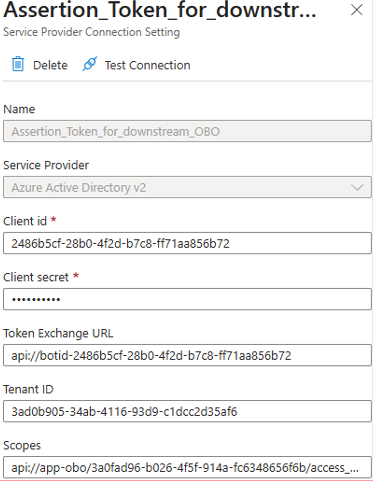
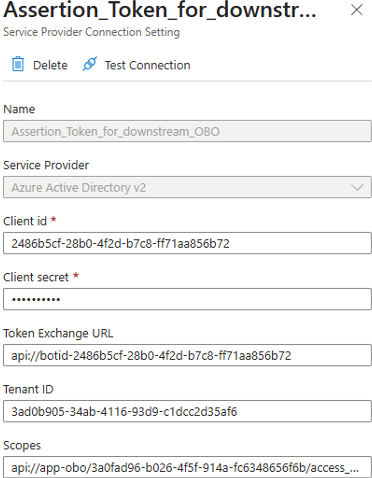
Add Appendix B (Microsoft Official Documentation); correct Registered Applications appendix
- New Appendix B: official Microsoft sources for x-client-* headers and OBO

- Downstream: 'Is x-client-user-token a fake header?' security section

- Bot: fix Token Exchange URL (Teams obtains Token C); clarify Token A never seen

- Index: 'Who uses these applications?' list; Bot purpose reworded

- Replace Bot OAuth Connection screenshot

diff --git a/docs/12-appendix-microsoft-documentation.md b/docs/12-appendix-microsoft-documentation.md
@@ -1,0 +1,36 @@
+# Appendix B — Microsoft Official Documentation
+
+This appendix collects the **official Microsoft sources** that back the design choices in this documentation — in particular the use of the `x-client-*` pass-through headers and the On-Behalf-Of support in Foundry hosted agents.
+
+## Summary table
+
+| # | What it states | Microsoft source (page / section) | Exact excerpt |
+|---|----------------|-----------------------------------|---------------|
+| **1** | The `x-client-` prefix is an official **client → agent pass-through** channel | [Azure AI Agent Server Core library for .NET](https://learn.microsoft.com/en-us/dotnet/api/overview/azure/ai.agentserver.core-readme?view=azure-dotnet-preview) — *PlatformHeaders* section | `ClientHeaderPrefix` → `x-client-*` → *Request* → "Pass-through client header prefix" |
+| **2a** | Hosted agents support **OBO with a user token** | [Hosted agents in Foundry Agent Service](https://learn.microsoft.com/en-us/azure/foundry/agents/concepts/hosted-agents) — *Agent identity and endpoint* section | "User-invoked scenarios (interactive): If a user token is present, the platform supports OAuth 2.0 On-Behalf-Of (OBO) flows. In this case, the agent can call downstream services on behalf of the user using the user's delegated permissions, subject to Microsoft Entra ID tenant policies." |
+| **2b** | The **"attended" OBO model** described in detail | [Agent identity concepts in Microsoft Foundry](https://learn.microsoft.com/en-us/azure/foundry/agents/concepts/agent-identity) — *Authentication capabilities* section | "Attended (delegated access or on-behalf-of flow): The agent operates on behalf of a human user, using the OAuth 2.0 on-behalf-of (OBO) flow. The user first authenticates to the application, and the application passes the user's token to Agent Service…" |
+| **3** | `x-client-*` headers are treated as **pass-through** by the Foundry platform | [GitHub issue Azure/azure-sdk-for-python#45797](https://github.com/Azure/azure-sdk-for-python/issues/45797) — answered by a Microsoft engineer | Customer-reported; Microsoft reply: "All x-client-* headers are treated as pass through by the platform" — this does **not** include the OAuth token provided in the `Authorization` header |
+
+## Detailed description
+
+### 1. The `x-client-` prefix is an official pass-through channel — Microsoft Learn (.NET SDK reference)
+
+Page: [Azure AI Agent Server Core library for .NET](https://learn.microsoft.com/en-us/dotnet/api/overview/azure/ai.agentserver.core-readme?view=azure-dotnet-preview) → *PlatformHeaders* section. The official table explicitly lists the constant `ClientHeaderPrefix = x-client-`, direction *Request*, description "Pass-through client header prefix". This is official documentation on `learn.microsoft.com`: it states, in black and white, that `x-client-` is the prefix for client headers forwarded from the client to the agent. The exact same construct exists in the Python package (`azure-ai-agentserver-core`, `PlatformHeaders` / `CLIENT_HEADER_PREFIX = "x-client-"`).
+
+### 2. Hosted agents support OBO with a user token — Microsoft Learn (concept pages)
+
+Two concept pages confirm it:
+
+- **[Hosted agents in Foundry Agent Service](https://learn.microsoft.com/en-us/azure/foundry/agents/concepts/hosted-agents)** (*Agent identity and endpoint*): if a user token is present, the platform supports the OAuth 2.0 On-Behalf-Of flow, and the agent can call downstream services with the user's delegated permissions.
+- **[Agent identity concepts in Microsoft Foundry](https://learn.microsoft.com/en-us/azure/foundry/agents/concepts/agent-identity)** (*Authentication capabilities*): describes the "attended (OBO)" model in which the application passes the user token to Agent Service, which exchanges it for a token carrying the agent's identity and the user's delegated permissions.
+
+### 3. "Foundry strips the token" — there is NO official Microsoft documentation
+
+An important and honest clarification: there is **no** Microsoft Learn page stating that Foundry "strips" the `Authorization` header (or the user identity) after using it for authentication. The only public evidence is the GitHub issue **[Azure/azure-sdk-for-python#45797](https://github.com/Azure/azure-sdk-for-python/issues/45797)** (a customer report, with input from Microsoft employees), where:
+
+- it is observed that the `Authorization` header is **not** propagated to the agent container (with the `from_agent_framework` adapter);
+- a Microsoft member (RaviPidaparthi) recommends precisely the `x-client-*` headers as the transport channel: *"All x-client-* headers are treated as pass through by the platform."*
+
+---
+
+**Back to:** [README / Introduction](../README.md) · [Appendix A](11-appendix-app-registrations.md)

diff --git a/docs/11a-app-bot.md b/docs/11a-app-bot.md
@@ -2,7 +2,7 @@
 
 [← Back to the three applications](11-appendix-app-registrations.md)
 
-**Role:** authenticates access to the bot service.
+**Role:** creates and authenticates access to the bot service.
 
 | Field | Value |
 |-------|-------|
@@ -26,9 +26,9 @@ How do we perform this OBO? We could do it through an MSAL Confidential Applicat
 
 Note that the OAuth Connection can perform the OBO precisely because **the Bot is the `aud` of Token A**. You must authenticate as that audience → which is why the **Bot's credentials** are needed.
 
-The **Token Exchange URL** is the element that enables the bot's **silent Single Sign-On (SSO)** in Teams. Without it the connection would only do interactive login (card + browser + redirect); with it, it can perform the SSO exchange without asking the user anything. This value equals the **App ID URI** of the Bot registered application — here `api://botid-2486…` — i.e. the identifier of the resource/audience Teams must request the first SSO token for (Token A). By setting the Token Exchange URL, we tell the OAuth Connection: *"to obtain the token you may attempt an SSO exchange; there is no need to show the sign-in card."* In fact, the one that generates that token is Teams: Teams sees that URI and silently asks Entra for an SSO token with `aud = that URI` → **Token A** (`aud = api://botid-2486b5cf...`).
+The **Token Exchange URL** is the element that enables the bot's **silent Single Sign-On (SSO)** in Teams. Without it the connection would only do interactive login (card + browser + redirect); with it, it can perform the SSO exchange without asking the user anything. This value equals the **App ID URI** of the Bot registered application — here `api://botid-2486…` — i.e. the identifier of the resource/audience Teams must request the first SSO token for (Token A). By setting the Token Exchange URL, we tell the OAuth Connection: *"to obtain the token you may attempt an SSO exchange; there is no need to show the sign-in card."* In fact, the one that generates that token is Teams: Teams sees that URI and silently asks Entra for **Token C** (with `aud = api://app-obo/3a0fad96-b026-4f5f-914a-fc6348656f6b/access_as_user`).
 
-Inside the BOT, Token A transits only in the `invoke signin/tokenExchange`, handled by `handleTeamsSigninTokenExchange` (`bot.js`), where it is available as `query.token`. The Token Service uses it as the assertion for the OBO and produces **Token C**. It is Token C that we then retrieve in `callStep` via `stepContext.result.token` (the `userAssertion` variable), and that we forward to the agent in the custom header:
+Inside the BOT, **we never see Token A**, because it transits only in the `invoke signin/tokenExchange`, handled by `handleTeamsSigninTokenExchange` (`bot.js`), where it is available as `query.token`. The Token Service uses it as the assertion for the OBO and produces **Token C**:
 
 ```js
 async handleTeamsSigninTokenExchange(context, query) {
@@ -51,7 +51,7 @@ async handleTeamsSigninTokenExchange(context, query) {
 }
 ```
 
-Inside the BOT we retrieve this Token C (in the `stepContext` of `callStep`, from which we extract the token — called `userAssertion` — with `stepContext.result.token`):
+It is Token C that we then retrieve in `callStep` via `stepContext.result.token` (the `userAssertion` variable), and that we forward to the agent in the custom header. Inside the BOT we retrieve this Token C (in the `stepContext` of `callStep`, from which we extract the token — called `userAssertion` — with `stepContext.result.token`):
 
 ```js
 // 2) Retrieve Token C (user assertion) - mainDialog.js

diff --git a/docs/11c-app-downstream-obo.md b/docs/11c-app-downstream-obo.md
@@ -17,6 +17,10 @@ This secret, together with the `client_id`, is used to **perform OBO**: we use a
 To perform OBO it requires creating a **confidential application** through MSAL, with `client_id` and `client_secret`:
 
 ```python
+CLIENT_USER_TOKEN_HEADER = "x-client-user-token"
+GRAPH_SCOPES = ["https://graph.microsoft.com/Files.Read"]
+assertion = context.client_headers.get(CLIENT_USER_TOKEN_HEADER, "")
+
 conf_app = msal.ConfidentialClientApplication(
     client_id,
     client_credential=client_secret,
@@ -50,6 +54,24 @@ Key properties of this identity:
 - It **can be shared** across all bots/agents that need to reach downstream services (e.g. MS Graph).
 - The downstream services must be **authorized** in the Entra **API Permissions** section (see below).
 - It serves to create **user-tokens** in which the user is extracted from the "source" token being exchanged.
+
+## Is `x-client-user-token` a "fake header"?
+
+No — it is a **documented Foundry mechanism**: `x-client-*` is the prefix for **pass-through client headers** (Request direction, i.e. from the client to the agent). The exact same construct exists in the Python package (`azure-ai-agentserver-core`, `PlatformHeaders` / `CLIENT_HEADER_PREFIX = "x-client-"`).
+
+In other words, the gateway recognizes the `x-client-*` prefix as the **official pass-through channel** toward the agent container (in the `azure-ai-agentserver-core` SDK, the constant `CLIENT_HEADER_PREFIX = "x-client-"`). The agent reads it via `context.client_headers`. So it is exactly the channel intended to carry context/credentials from the client to the agent.
+
+**Fundamental point: the security of Token C does not depend on which header carries it, but on its cryptographic properties:**
+
+- It is a **JWT signed by Entra (RS256)**. It cannot be forged: no one can fabricate a valid Token C without Entra's private key.
+- It is **audience-restricted** (`aud = api://app-obo/...`): usable only toward that downstream app, nowhere else.
+- It is **short-lived** (~1h).
+- To "spend" it (OBO → Graph) you need the **App-OBO `client_secret`**: merely holding the token is not enough. Indeed, with a malformed/forged token, Entra responds `AADSTS50027` and the OBO fails.
+- **Consequence:** even if someone intercepted or injected a value into that header, they would get nothing — the agent does not blindly "trust" the header, because the token is cryptographically validated by Entra at OBO time.
+
+**In transit it is as protected as the `Authorization` header.** Calls to Foundry are over HTTPS/TLS: all headers (including `x-client-user-token`) are encrypted in transit, exactly like `Authorization`. There is no protection difference between a standard header and a custom header over TLS. The body would be encrypted the same way too — so "header vs body" is irrelevant for confidentiality in transit.
+
+> For the official Microsoft references backing this up, see [Appendix B — Microsoft Official Documentation](12-appendix-microsoft-documentation.md).
 
 ## Expose an API
 

diff --git a/docs/11-appendix-app-registrations.md b/docs/11-appendix-app-registrations.md
@@ -8,12 +8,21 @@ This appendix documents the three Entra registered applications used in this sce
 |---|---|---|---|
 | **Display name** | `echo-token-bot` | `svc-foundry-dataplane-access-dev` | `svc-agent-obo-downstream-dev` |
 | **Application (client) ID** | `2486b5cf-28b0-4f2d-b7c8-ff71aa856b72` | `b0cc68f2-87d7-491d-8cc2-60624256126e` | `3a0fad96-b026-4f5f-914a-fc6348656f6b` |
-| **Purpose** | Authenticates access to the bot service | Service identity that authenticates toward Foundry (mints **Token B**) | Service identity that performs OBO toward downstream services, e.g. MS Graph (mints **Token D**) |
+| **Purpose** | Creates and authenticates access to the bot service | Service identity that authenticates toward Foundry (mints **Token B**) | Service identity that performs OBO toward downstream services, e.g. MS Graph (mints **Token D**) |
 | **Secret is used for** | OBO: **Token A → Token C** (via the OAuth Connection) | Client credentials → **Token B** (`aud = https://ai.azure.com`) | OBO: **Token C → Token D** (`aud = Microsoft Graph`) |
 | **Open the page** | **[→ Bot](11a-app-bot.md)** | **[→ Foundry Access](11b-app-foundry-access.md)** | **[→ Downstream](11c-app-downstream-obo.md)** |
 
 > **Directory (tenant) ID** for all three: `3ad0b905-34ab-4116-93d9-c1dcc2d35af6`.
 > Values are from the validated development environment; secrets are masked. Substitute your own when reproducing.
+
+## Who uses these applications?
+
+- **Azure**, when it creates the Azure Bot.
+- **The developer** (using the M365 Agents SDK), when creating the manifest.
+- **Teams**, when it asks Entra for the user **Token A** to access the Bot.
+- **The OAuth Connection**, to perform OBO and create the downstream user **Token C**.
+- **The Bot service**, when it creates the Foundry app **Token B** to access Foundry.
+- **The Foundry Hosted Agent**, when it performs OBO to obtain the MS Graph user **Token D**.
 
 ---
 

diff --git a/CHANGELOG.md b/CHANGELOG.md
@@ -9,6 +9,18 @@ and this project uses simple, dated version tags (`v1.0`, `v1.1`, …).
 > Changes are additive by default; any rename, reorder, split, or merge is called
 > out explicitly below.
 
+## [v1.5] — 2026-07-04
+
+### Added
+- **Appendix B — Microsoft Official Documentation** (`docs/12-appendix-microsoft-documentation.md`): a summary table plus detailed write-up of the official Microsoft sources (Microsoft Learn pages and a GitHub issue) that back the use of the `x-client-*` pass-through headers and OBO support in Foundry hosted agents.
+- New section **"Is `x-client-user-token` a fake header?"** on the Downstream (App-OBO) page (`docs/11c-app-downstream-obo.md`), covering why the custom header is legitimate and how Token C's security rests on its cryptographic properties (Entra-signed JWT, audience-restricted, short-lived, requires the App-OBO secret to spend).
+- **"Who uses these applications?"** list on the Appendix A index.
+
+### Changed
+- Appendix A corrections: the Bot's purpose is now "creates and authenticates access to the bot service"; corrected the Token Exchange URL description on the Bot page (Teams silently obtains **Token C**, `aud = api://app-obo/…/access_as_user`) and clarified that Token A is never seen inside the bot; added the `CLIENT_USER_TOKEN_HEADER` / assertion lines to the Downstream OBO snippet.
+- Replaced the Bot OAuth Connection screenshot (`docs/images/11-02-bot-oauth-connection-token-c.png`).
+- Linked Appendix B from the README table of contents and repository layout.
+
 ## [v1.4] — 2026-07-03
 
 ### Changed

diff --git a/README.md b/README.md
@@ -56,6 +56,7 @@ This documentation analyses how that flow applies to **Microsoft Foundry agents 
 | 09 | [Publishing the App to Teams](docs/09-publishing-to-teams.md) | Manifest, package ZIP, sideload, verify |
 | 10 | [Wiring Token C & Verification](docs/10-wiring-and-verification.md) | Forwarding Token C in code + the expected token claims |
 | A | [Appendix — The Three Registered Applications](docs/11-appendix-app-registrations.md) | Per-app reference: Overview, Certificates & secrets, Expose an API, API Permissions |
+| B | [Appendix — Microsoft Official Documentation](docs/12-appendix-microsoft-documentation.md) | Official Microsoft sources for the `x-client-*` pass-through headers and OBO support |
 
 ---
 
@@ -81,6 +82,7 @@ foundry-agent-obo-token-exchange/
     ├── 11a-app-bot.md                      ← Appendix A.1 (Bot)
     ├── 11b-app-foundry-access.md           ← Appendix A.2 (Foundry Access)
     ├── 11c-app-downstream-obo.md           ← Appendix A.3 (Downstream / App-OBO)
+    ├── 12-appendix-microsoft-documentation.md   ← Appendix B (Microsoft official docs)
     └── images/                    ← all screenshots referenced by the chapters
 ```
 
